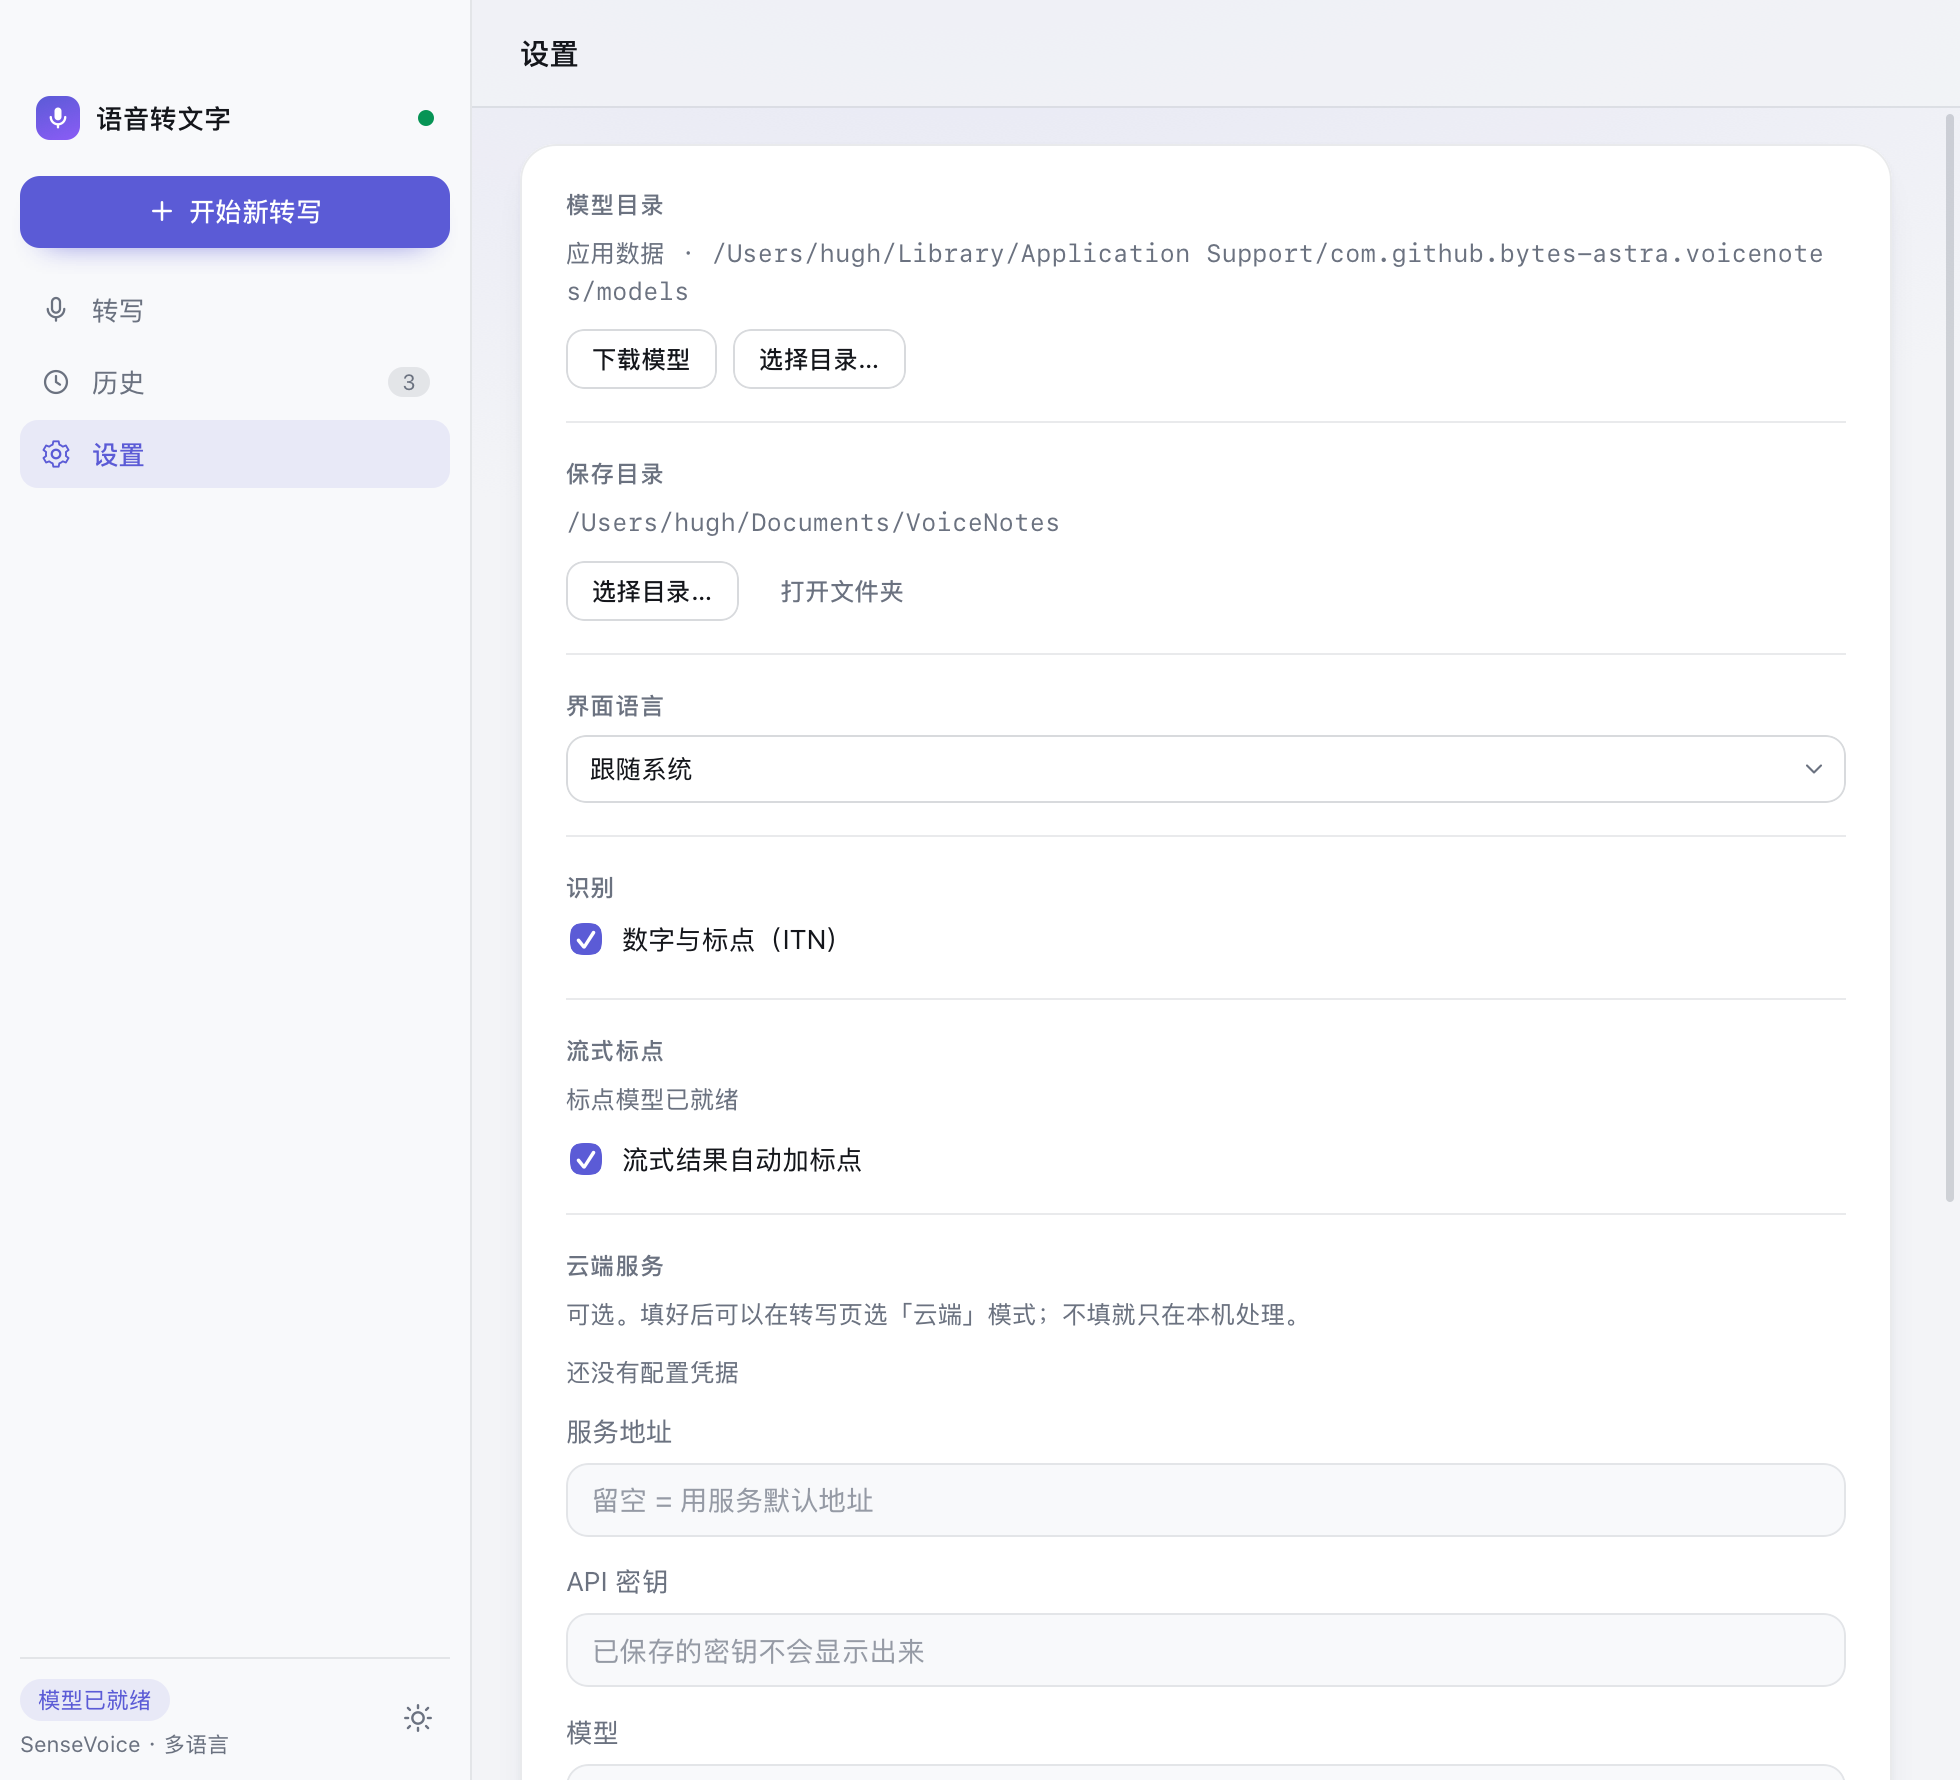
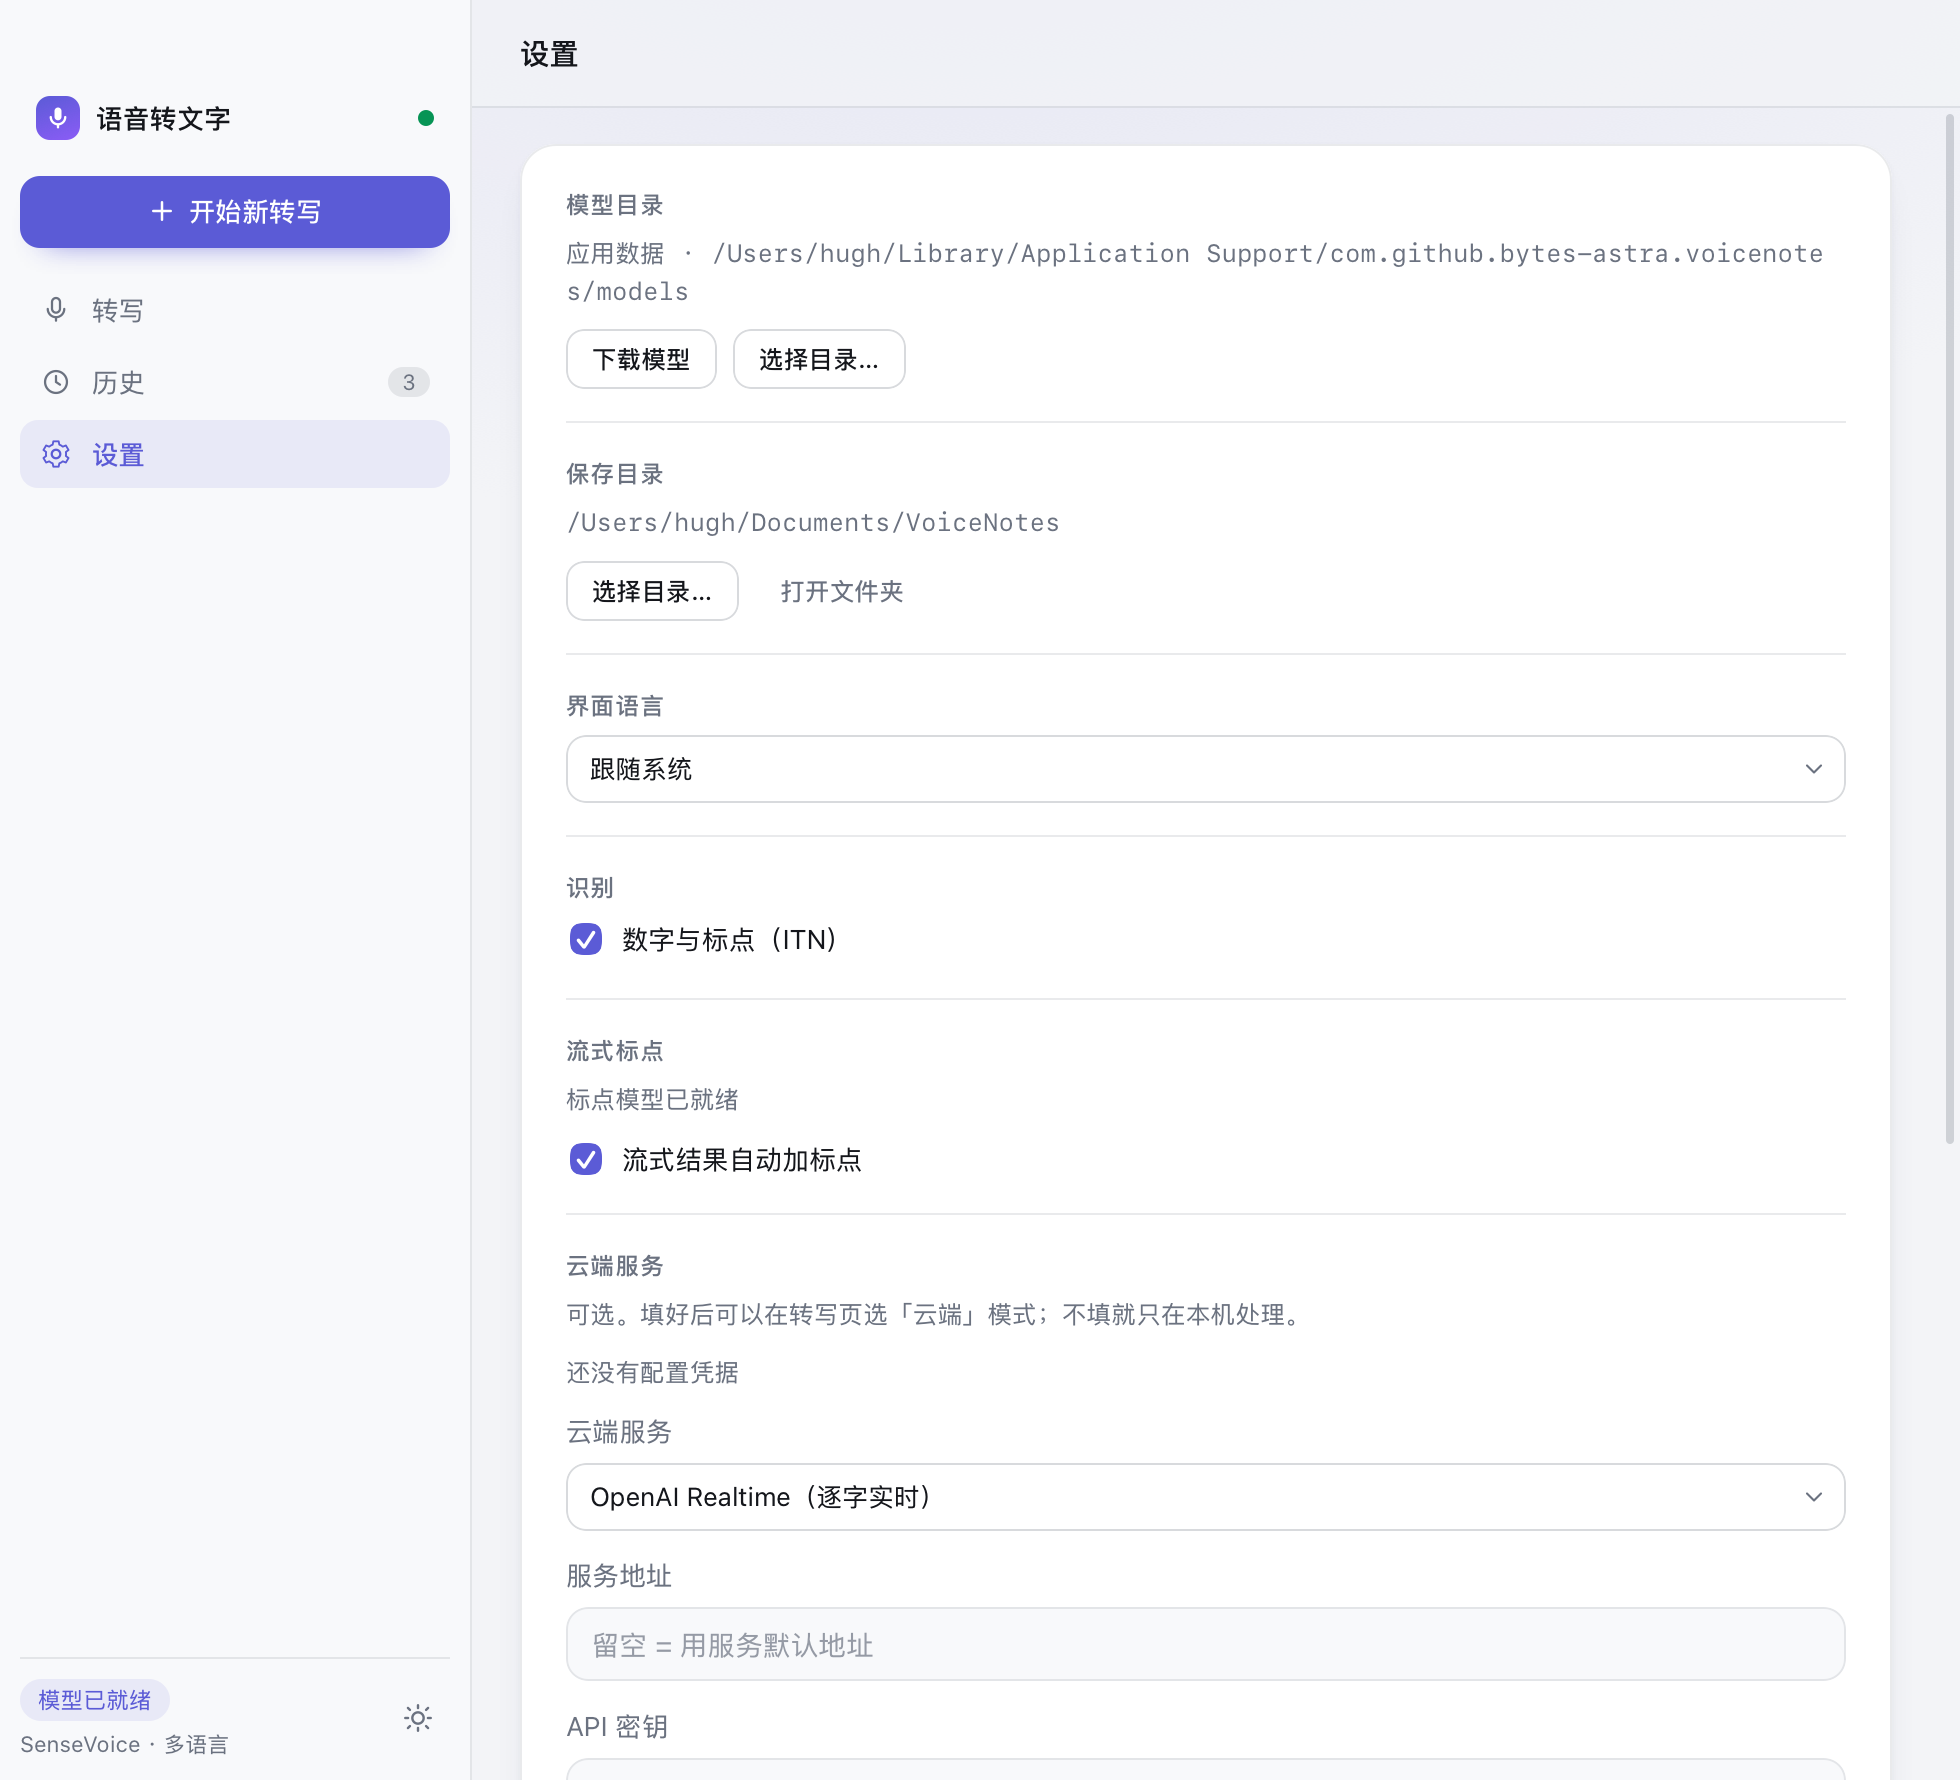
docs: 补云端模式说明与设置页截图
- AGENTS.md 补「云端模式」一节：provider 可插拔、能力声明、中间结果归一、
  区间按 item_id 绑定、两种断句族的门控差异、凭据与丢包的规矩。
- README 的云端配置表补「云端服务」选择项，资源标识只列豆包 2.0。
- 截图重出：设置页多了 provider 选择器；截图 harness 的假状态补上云端字段
  （之前缺字段会让「不支持术语表」的提示误显示出来）。
- HOW_TO_VERIFY 记录真服务验证结果。

Changed region(s): [[0.2801, 0.7725, 0.498, 0.9888], [0.9959, 0.6489, 1.0, 0.6798]]

diff --git a/AGENTS.md b/AGENTS.md
@@ -196,6 +196,19 @@
   - **热词要按模型的词表过滤**（`engine.rs` 的 `streaming_vocab_chars` / `split_hotwords_by_vocab`）：流式模型是 cjkchar **单字**词表（1426 字），sherpa 的 `EncodeHotwords` **逐字**查表 —— 任何一个字不在表里，**整条热词**就被跳过（只往 stderr 打一句 `Cannot find ID for token`，界面上看不出为什么没生效）。喂给 sherpa 之前先剔掉含表外字的条目，并记 WARN 列出是哪几条；`Status.hotwordsIgnored` 把这个数给界面，保存后提示「其中 N 个含模型不认识的字，不会生效」。**读不到词表时全部放行** —— 别因为词表读不出来就把用户的术语表清空。
 - 标点模型（`PUNCT`，CT-Transformer zh-en，281 MB，`engine.rs` 的 `PunctuationEngine`）独立放在 `models/punct/`，默认关闭；开启后 `StreamEmitter` 在每句定稿时调 `PunctuationEngine::apply`，实时中间结果不加标点。模型缺失/加载失败时静默降级，不阻断录音。
 
+### 云端模式
+
+第三个引擎（`mode = "cloud"`），**显式 opt-in**：音频会上传，默认仍走本地；本地两条路径的行为一个字都不许改。
+
+- **provider 可插拔**：`CloudProvider` trait（`src-tauri/src/asr/cloud.rs`）只管协议 —— 建连、喂音频、提交、收尾。协议差异（帧格式、鉴权、partial 语义、术语表格式）全部关在 provider 内部：`realtime.rs`（OpenAI Realtime，JSON 帧）、`volcengine.rs`（火山 / 豆包，自研二进制帧）。加一家 = 加一个文件 + 在能力表里登记。
+- **能力声明**：`Capabilities`（句边界方式 / 是否需要本地 VAD / 中间结果语义 / 是否支持术语表 / 上传采样率）由 provider 自报，按 id 静态查的表（`provider_capabilities`）与实例**同源**（表项就是实现自报的那个常量，别手写第二份）。合法组合只有两种：客户端提交 + 需要本地 VAD；服务端断句 + 不需要本地 VAD。**「缺 VAD」不是「改用服务端断句」** —— 那是另一个能力，混起来会让客户端提交族静默退化。
+- **中间结果统一为「当前未定稿句的累计串」**：各家协议形态不同（增量拼接 / 确认前缀加草稿 / 区间替换），在 provider 内部归一（`partial.rs` 的归一器），上层只认这一种。partial 必须带句归属，否则跨句交错会串。
+- **句子时间以本地 16 kHz 时钟为准**：provider 给的时间戳只作可选增强，**不覆盖本地轴**。区间按 item_id 绑定（`CommitAck` / `Final{item_id}`）—— 服务端可能乱序返回，按到达顺序配对会整体错位一格。
+- **断句**：客户端提交族本地门控（静音在本地丢掉、静音时提交）；服务端断句族**不门控**（静音照上传，服务端靠静音判句尾），区间走本地轴兜底（终点偏长是已知取舍）。「末包 / 结束标识」不等于「结果已全回」—— 要等最终响应才收尾。
+- **凭据**：只存 settings，**不进日志、不回传前端**（`Status` 只有 `cloudConfigured` 布尔）；错误详情里的 key 要脱敏（`sanitize`）。切换 provider 会清空地址与凭据（两家的配置不能混用）。
+- **上传丢包要留缺口**：队列满时丢掉的那段音频推进真实录音时间轴并生成 `[[gap:N]]`；**连续丢包并成一条**（逐条上报会刷屏）。provider 要区分「投递了」与「只是攒包」—— 只回一个丢包数不够（`SendOutcome`）。
+- **验证**：协议层单测（帧编解码、结果映射）+ 真服务冒烟（凭据走环境变量，见 HOW_TO_VERIFY）。真 key 不入库、不进日志、不打印。
+
 ### 音频采集
 
 - **采集缓冲是消费式的**（`audio.rs`）：`audio::SampleQueue` 的 `take_new()` 取走即释放，内存恒定（录 1 小时和 1 分钟占一样多）。**电平表走独立的 `LevelRing`**（2048 样本）—— 采集缓冲没有历史了，音量表去读它会恒读 0。

diff --git a/README.md b/README.md
@@ -112,7 +112,7 @@ CI 不出 Linux 包，需要自己构建（依赖 `libasound2-dev`、`libwebkit2
 | 服务地址 | 留空 = 用该服务的默认地址（Realtime：`wss://api.openai.com/v1/realtime?intent=transcription`；火山：`wss://openspeech.bytedance.com/api/v3/sauc/bigmodel_async`） |
 | API 密钥 | 填了就保存下来；**保存后不再显示**（界面上只显示「凭据已配置」），随时可以「清除凭据」 |
 | 模型 | 只对 OpenAI Realtime 有效（默认 `gpt-live-transcribe`） |
-| 资源标识 | 只对火山有效（`X-Api-Resource-Id`，留空 = 默认；小时版 `volc.seedasr.sauc.duration` / 并发版 `.concurrent`） |
+| 资源标识 | 只对火山有效（`X-Api-Resource-Id`，留空 = 默认）。只用**豆包流式语音识别模型 2.0**：小时版 `volc.seedasr.sauc.duration` / 并发版 `volc.seedasr.sauc.concurrent` |
 
 其他行为：
 
